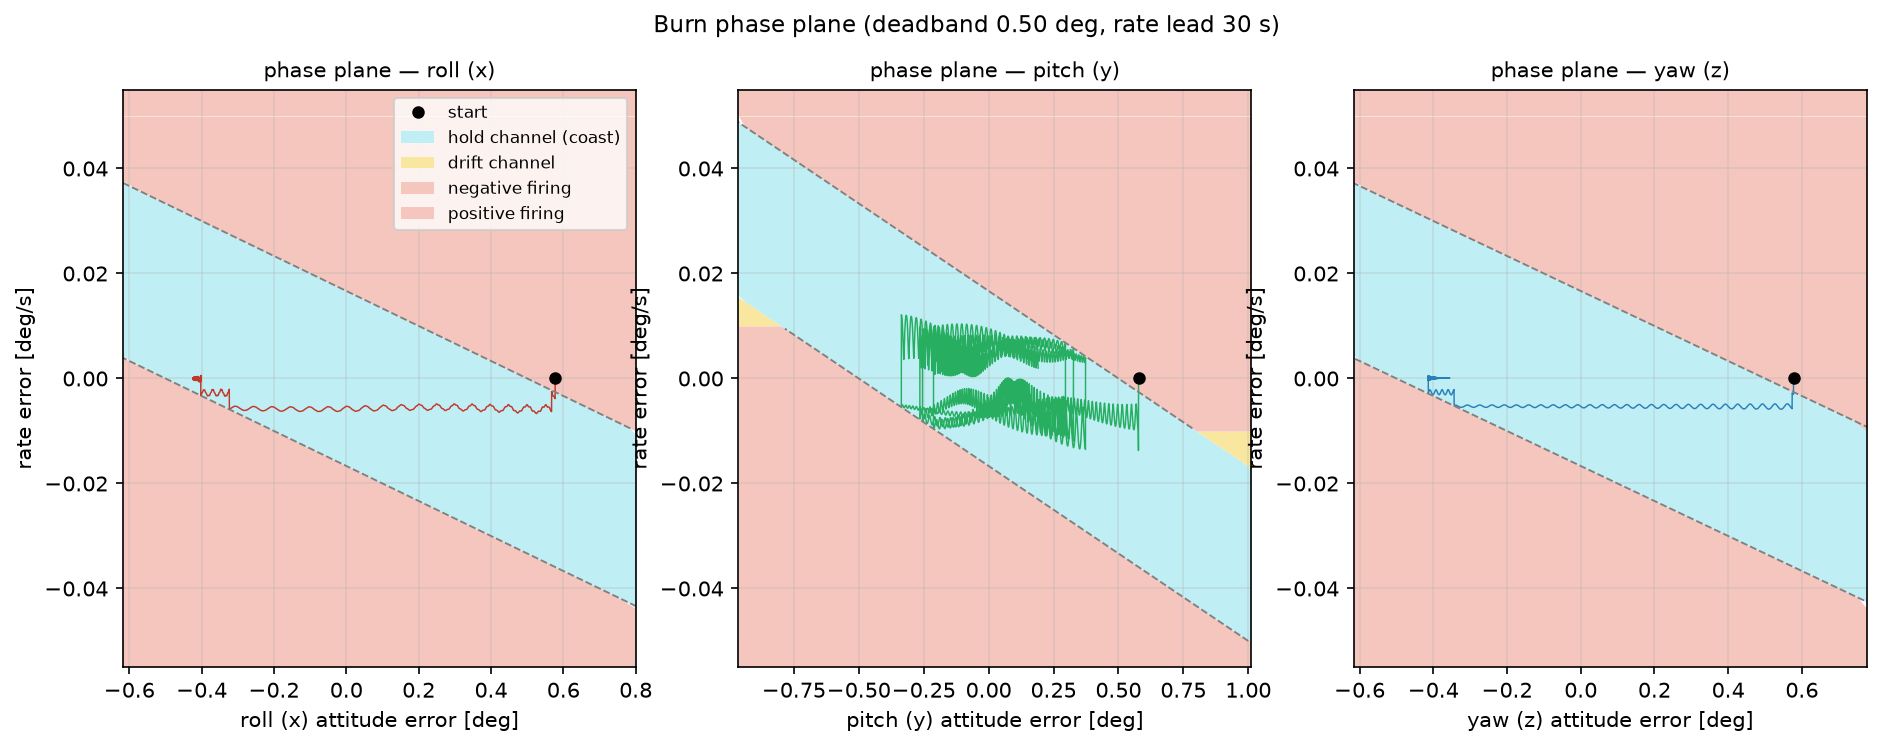
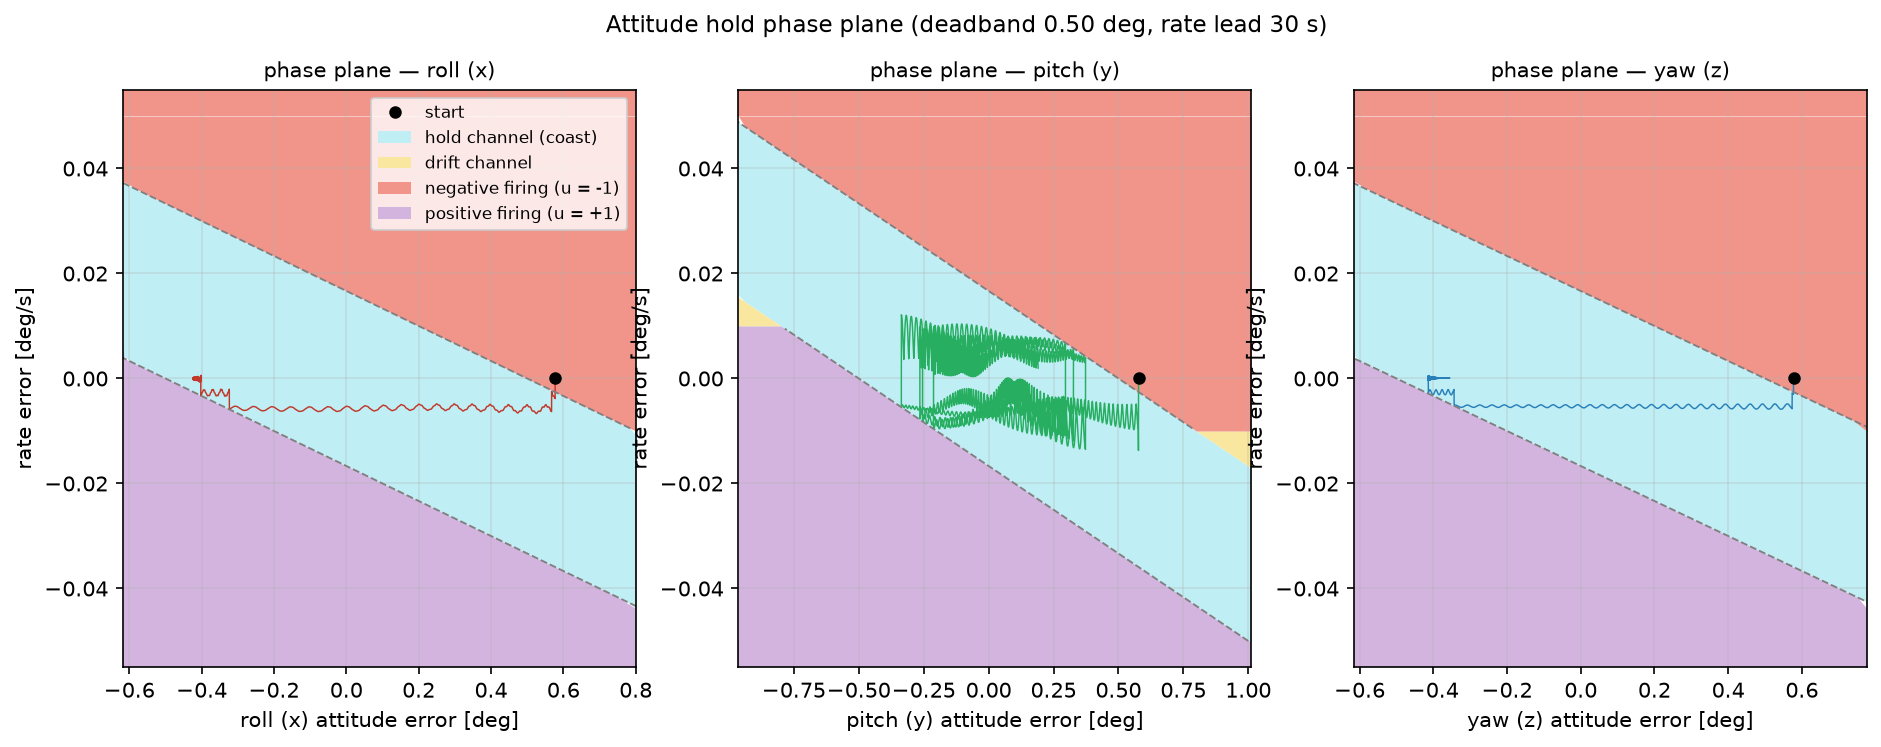
Distinct colors + region labels for phase-plane firing regions
Negative firing (u=-1) red, positive firing (u=+1) purple, so the two are visually distinct on every phase-plane figure. Standalone logic map labels each region with in-plot text (no legend); simulation panels keep the color legend. Sim panel title now reflects hold vs burn mode.

diff --git a/src/spacecraft_acs/plotting.py b/src/spacecraft_acs/plotting.py
@@ -320,19 +320,22 @@ def _shade_phase_plane(ax, pp, x_lo, x_hi, y_lo, y_hi, labels=False):
     om_n = np.linspace(y0, max(-wdr, y0), 30)
     ax.fill_betweenx(om_n, np.clip(db - lead * om_n, x_lo, x_hi), x_hi,
                      color="#f9e79f", lw=0)
-    # firing regions: everything above/below the rate limit, plus outside
-    # the switching lines at sub-drift return rates
-    fire = dict(color="#f5c6bd", lw=0)
+    # firing regions, distinct colors: negative firing (thrusters command
+    # u = -1) is everything above the rate limit plus right of the +db
+    # switching line at sub-drift return rates; positive firing (u = +1)
+    # mirrors it below/left.
+    neg = dict(color="#f1948a", lw=0)  # negative firing (u = -1)
+    pos = dict(color="#d2b4de", lw=0)  # positive firing (u = +1)
     if y_hi > rl:
         ax.fill_betweenx([rl, y_hi], x_lo, x_hi,
-                         label=lab("negative firing"), **fire)
+                         label=lab("negative firing (u = -1)"), **neg)
     if y_lo < -rl:
         ax.fill_betweenx([y_lo, -rl], x_lo, x_hi,
-                         label=lab("positive firing"), **fire)
+                         label=lab("positive firing (u = +1)"), **pos)
     om_fp = np.linspace(max(-wdr, y0), y1, 30)
-    ax.fill_betweenx(om_fp, np.clip(db - lead * om_fp, x_lo, x_hi), x_hi, **fire)
+    ax.fill_betweenx(om_fp, np.clip(db - lead * om_fp, x_lo, x_hi), x_hi, **neg)
     om_fn = np.linspace(y0, min(wdr, y1), 30)
-    ax.fill_betweenx(om_fn, x_lo, np.clip(-db - lead * om_fn, x_lo, x_hi), **fire)
+    ax.fill_betweenx(om_fn, x_lo, np.clip(-db - lead * om_fn, x_lo, x_hi), **pos)
     # switching lines, only where they border a firing region
     om_hi = om[om > -wdr]
     om_lo = om[om < wdr]
@@ -347,11 +350,18 @@ def plot_phase_plane_logic(cfg, output_dir: Path) -> Path:
     x = 1.3 * (pp.deadband_deg + pp.rate_lead_s * pp.rate_limit_dps)
     y = 1.3 * pp.rate_limit_dps
     fig, ax = plt.subplots(figsize=(9, 6))
-    _shade_phase_plane(ax, pp, -x, x, -y, y, labels=True)
+    _shade_phase_plane(ax, pp, -x, x, -y, y, labels=False)
     ax.axhline(0, color="0.3", lw=0.8)
     ax.axvline(0, color="0.3", lw=0.8)
     ax.set_xlim(-x, x)
     ax.set_ylim(-y, y)
+    rl, wdr = pp.rate_limit_dps, pp.min_drift_rate_dps
+    txt = dict(ha="center", va="center", fontsize=11, fontweight="bold")
+    ax.text(0.0, 0.5 * (rl + y), "negative firing (u = −1)", color="#922b21", **txt)
+    ax.text(0.0, -0.5 * (rl + y), "positive firing (u = +1)", color="#5b2c6f", **txt)
+    ax.text(-0.62 * x, 0.5 * (wdr + rl), "drift", color="#7d6608", **txt)
+    ax.text(0.62 * x, -0.5 * (wdr + rl), "drift", color="#7d6608", **txt)
+    ax.text(0.0, 0.0, "hold\n(coast)", color="#0e6251", **txt)
     ax.set_xlabel("attitude error [deg]")
     ax.set_ylabel("rate error [deg/s]")
     ax.set_title(
@@ -359,7 +369,6 @@ def plot_phase_plane_logic(cfg, output_dir: Path) -> Path:
         f"{pp.rate_lead_s:.0f}, min_drift_rate_dps {pp.min_drift_rate_dps}, "
         f"rate_limit_dps {pp.rate_limit_dps}", fontsize=10,
     )
-    ax.legend(loc="upper right", fontsize=9)
     ax.grid(alpha=0.3)
     return _save(fig, output_dir, "phase_plane_logic")
 
@@ -399,8 +408,9 @@ def plot_burn(result, output_dir: Path, prefix: str = "burn") -> list[Path]:
         ax.set_title(f"phase plane — {AXIS_LABELS[i]}", fontsize=10)
         ax.grid(alpha=0.3)
     axs[0].legend(fontsize=8)
+    mode = "Attitude hold" if prefix == "hold" else "Burn"
     fig.suptitle(
-        f"Burn phase plane (deadband {db:.2f} deg, rate lead {lead:.0f} s)",
+        f"{mode} phase plane (deadband {db:.2f} deg, rate lead {lead:.0f} s)",
         fontsize=11,
     )
     p1 = _save(fig, output_dir, f"{prefix}_phase_plane")